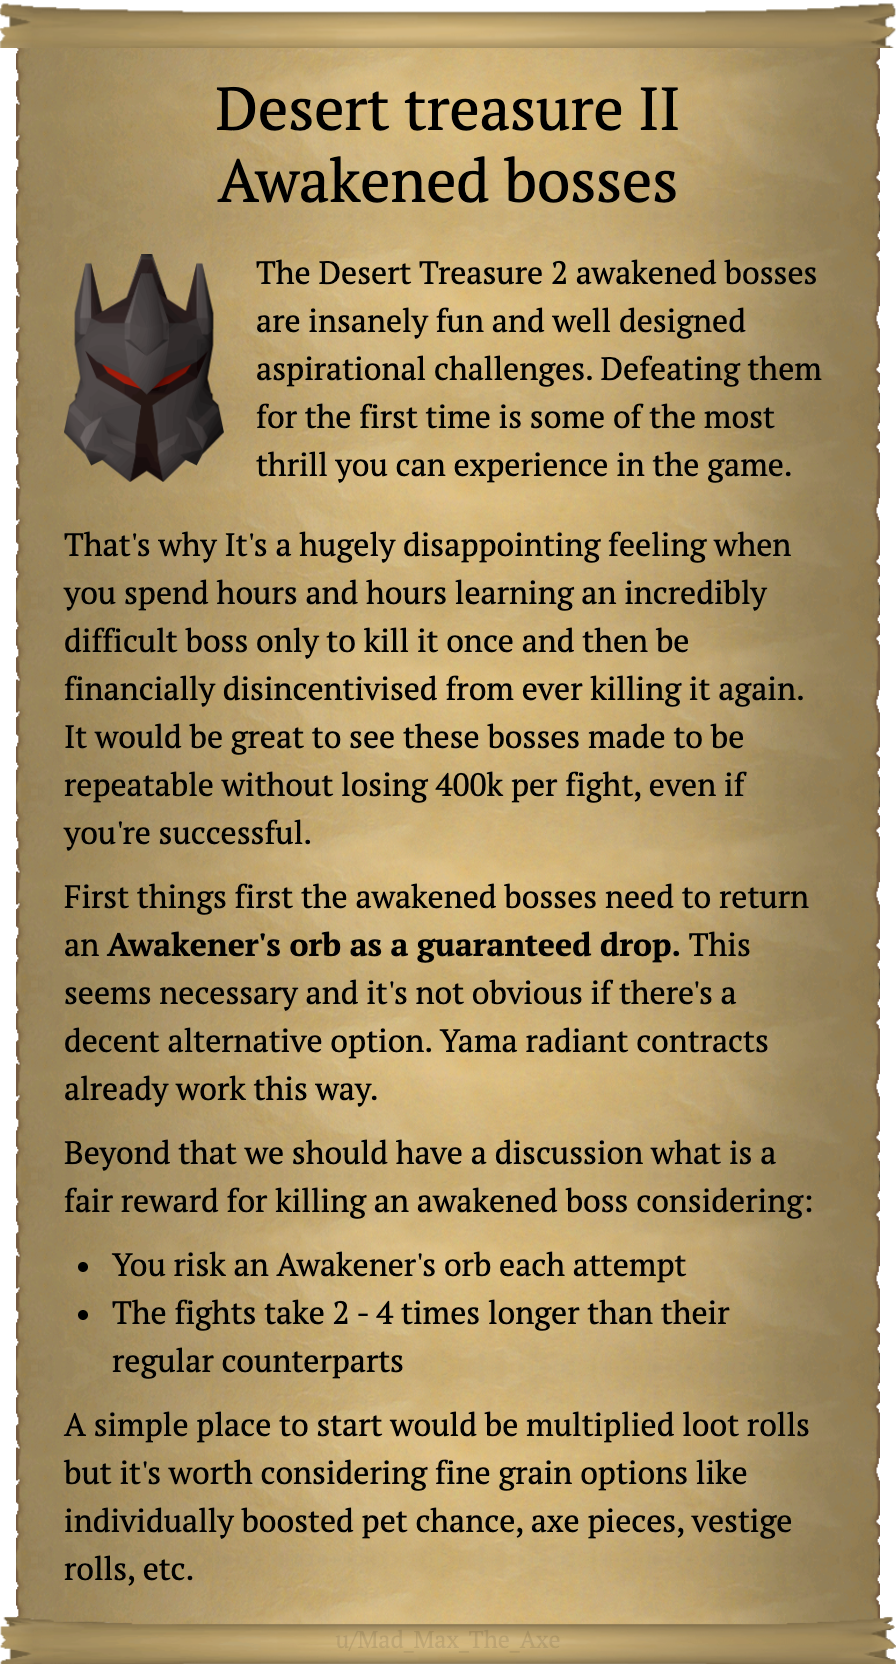
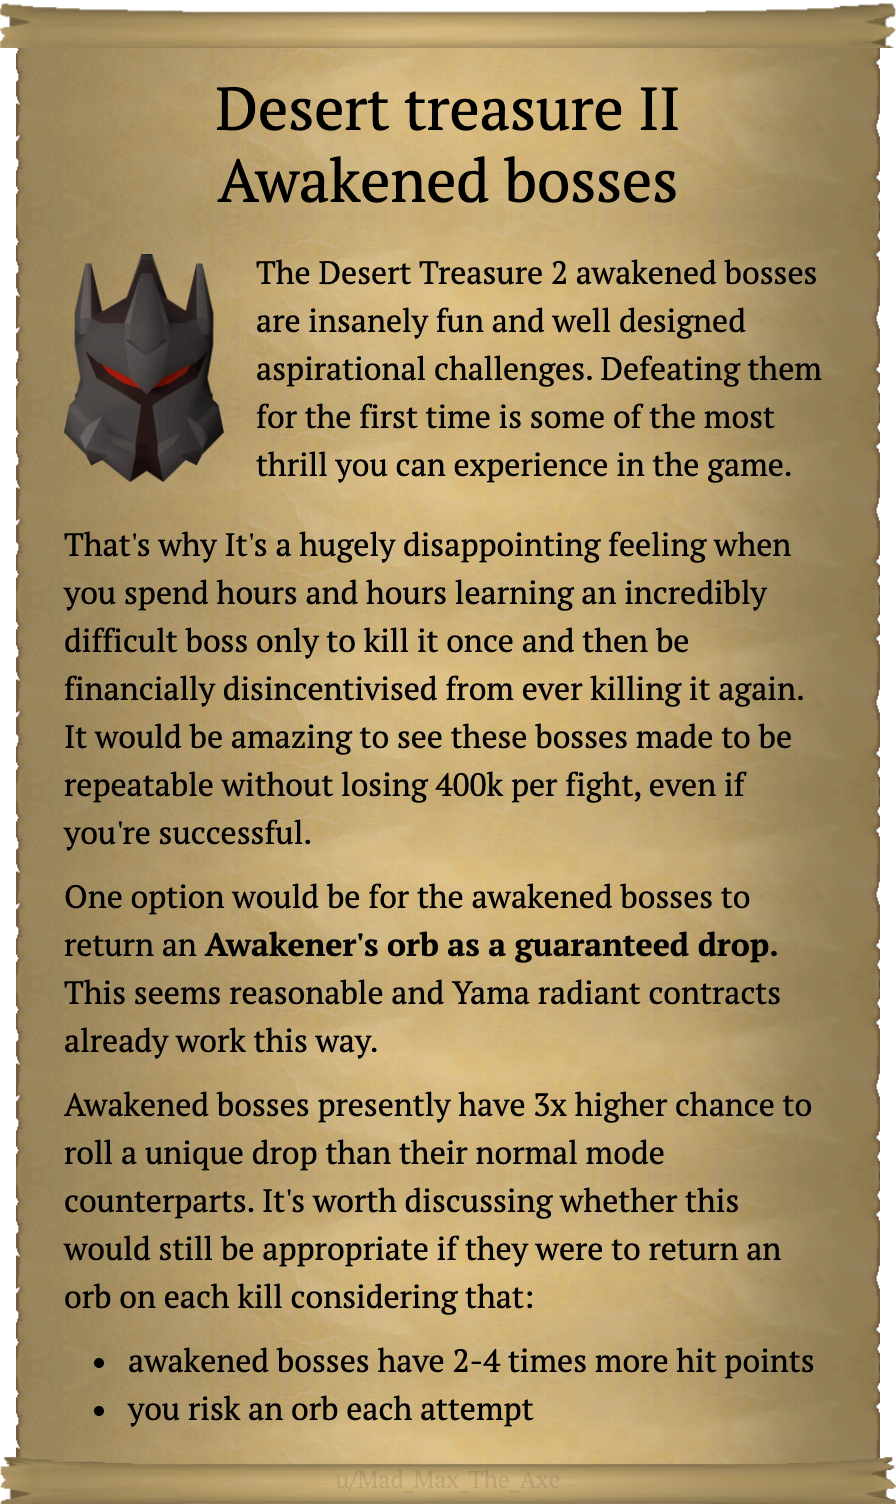
update dt2

diff --git a/app/summer-sweepup/dt2-awakened/page.tsx b/app/summer-sweepup/dt2-awakened/page.tsx
@@ -26,8 +26,9 @@ export default function Page() {
           That&apos;s why It&apos;s a hugely disappointing feeling when you
           spend hours and hours learning an incredibly difficult boss only to
           kill it once and then be financially disincentivised from ever killing
-          it again. It would be great to see these bosses made to be repeatable
-          without losing 400k per fight, even if you&apos;re successful.
+          it again. It would be amazing to see these bosses made to be
+          repeatable without losing 400k per fight, even if you&apos;re
+          successful.
         </p>
 
         <p>
@@ -37,10 +38,16 @@ export default function Page() {
         </p>
 
         <p>
-          Another option would be{" "}
-          <strong>some kind of permanent unlock mechanism</strong> but it&apos;s
-          not obvious how this would work.
+          Awakened bosses presently have 3x higher chance to roll a unique drop
+          than their normal mode counterparts. It&apos;s worth discussing
+          whether this would still be appropriate if they were to return an orb
+          on each kill considering that:
         </p>
+
+        <ul className="list-disc pl-8">
+          <li>awakened bosses have 2-4 times more hit points</li>
+          <li>you risk an orb each attempt</li>
+        </ul>
       </div>
     </>
   );
